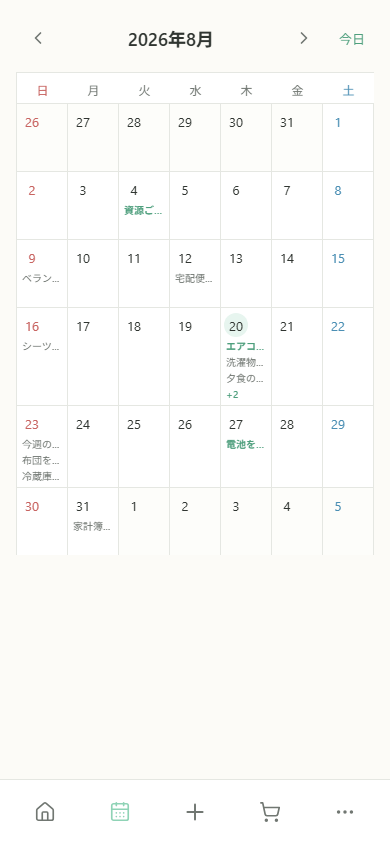
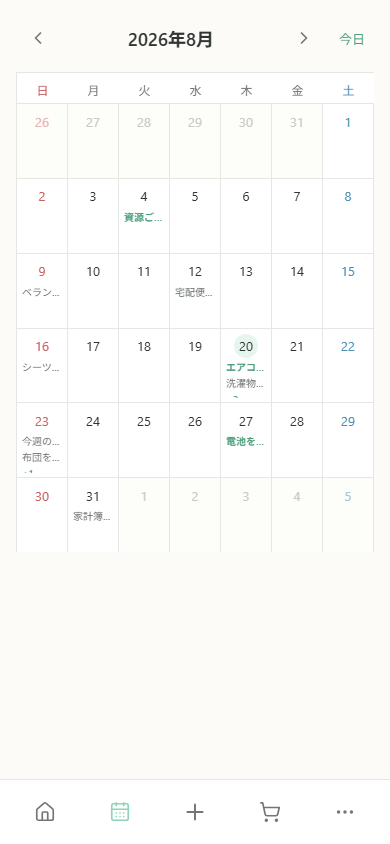
fix: address calendar review feedback

diff --git a/src/pages/CalendarPage.test.tsx b/src/pages/CalendarPage.test.tsx
@@ -34,12 +34,15 @@ describe('CalendarPage', () => {
     expect(screen.queryByText('朝食の片付け')).not.toBeInTheDocument();
     expect(screen.queryByText('窓を少し開ける')).not.toBeInTheDocument();
     expect(screen.getByText('エアコンのフィルターを掃除')).toBeVisible();
+
+    fireEvent.click(screen.getByRole('button', { name: /8月20日 木曜日/ }));
+    expect(screen.getByText('完了済み 1件')).toBeVisible();
   });
 
   it('shows overflow as +N in the dense fixture', () => {
     renderCalendar('dense');
 
-    expect(screen.getByText('+2')).toBeVisible();
+    expect(screen.getByText('+3')).toBeVisible();
   });
 
   it('opens date details from a cell and closes with the explicit control', () => {
@@ -85,6 +88,26 @@ describe('CalendarPage', () => {
     expect(screen.getByRole('heading', { name: '8月21日 金曜日' })).toBeVisible();
   });
 
+  it('keeps the selected date when a detail task swipe opens edit/pass actions', () => {
+    renderCalendar('date-open');
+    const sheet = screen.getByRole('dialog');
+    const task = sheet.querySelector('.calendar-detail-task');
+
+    if (!task) throw new Error('Expected a detail task');
+    fireEvent(
+      task,
+      new MouseEvent('pointerdown', { bubbles: true, clientX: 240 }),
+    );
+    fireEvent(
+      task,
+      new MouseEvent('pointerup', { bubbles: true, clientX: 160 }),
+    );
+
+    expect(screen.getByRole('button', { name: '編集' })).toBeVisible();
+    expect(screen.getByRole('button', { name: 'パス' })).toBeVisible();
+    expect(screen.getByRole('heading', { name: '8月20日 木曜日' })).toBeVisible();
+  });
+
   it('removes a detail task after the Home-style completion action', () => {
     renderCalendar('date-open');
     const taskName = 'エアコンのフィルターを掃除';
@@ -103,6 +126,18 @@ describe('CalendarPage', () => {
     renderCalendar('long-text');
     expect(document.querySelectorAll('.calendar-day-cell')).toHaveLength(42);
     expect(screen.getByText('冷蔵庫の中を確認して足りない食材を買い物メモに追加する')).toBeVisible();
+  });
+
+  it('adapts the month grid between six and five week months', () => {
+    renderCalendar('normal');
+
+    fireEvent.click(screen.getByRole('button', { name: '次の月' }));
+    expect(screen.getByRole('heading', { name: '2026年9月' })).toBeVisible();
+    expect(document.querySelectorAll('.calendar-day-cell')).toHaveLength(35);
+
+    fireEvent.click(screen.getByRole('button', { name: '前の月' }));
+    expect(screen.getByRole('heading', { name: '2026年8月' })).toBeVisible();
+    expect(document.querySelectorAll('.calendar-day-cell')).toHaveLength(42);
   });
 
   it('keeps BottomNavigation outside the Calendar content scroll region', () => {

diff --git a/src/pages/CalendarPage.tsx b/src/pages/CalendarPage.tsx
@@ -9,7 +9,7 @@ import { getCalendarUiLabState } from '../mock/calendarState';
 
 const TODAY = '2026-08-20';
 const INITIAL_MONTH = '2026-08-01';
-const MAX_CELL_TASKS = 3;
+const MAX_CELL_TASKS = 2;
 const WEEKDAYS = ['日', '月', '火', '水', '木', '金', '土'];
 
 type CalendarPageProps = {
@@ -24,7 +24,7 @@ export function CalendarPage({ state = getCalendarUiLabState() }: CalendarPagePr
   );
   const [tasks, setTasks] = useState<CalendarTask[]>(fixture.tasks);
   const [completedCount, setCompletedCount] = useState(
-    fixture.tasks.filter((task) => task.completed || task.passed).length,
+    fixture.tasks.filter((task) => task.completed).length,
   );
   const [statusMessage, setStatusMessage] = useState('');
 
@@ -32,7 +32,7 @@ export function CalendarPage({ state = getCalendarUiLabState() }: CalendarPagePr
     setMonthDate(INITIAL_MONTH);
     setSelectedDate(fixture.selectedDate ?? null);
     setTasks(fixture.tasks);
-    setCompletedCount(fixture.tasks.filter((task) => task.completed || task.passed).length);
+    setCompletedCount(fixture.tasks.filter((task) => task.completed).length);
     setStatusMessage('');
   }, [fixture, state]);
 
@@ -91,7 +91,7 @@ export function CalendarPage({ state = getCalendarUiLabState() }: CalendarPagePr
       </header>
 
       <section
-        className="calendar-month-grid"
+        className={`calendar-month-grid calendar-month-grid--${monthDays.length / 7}`}
         aria-label={`${formatMonthLabel(monthDate)}のカレンダー`}
         data-uilab-component="Calendar.MonthGrid"
       >
@@ -342,12 +342,18 @@ function CalendarDetailTask({
       className={`calendar-detail-task${actionsOpen ? ' is-actions-open' : ''}`}
       data-uilab-id={task.id}
       onPointerDown={(event) => {
+        event.stopPropagation();
         startX.current = event.clientX;
       }}
       onPointerUp={(event) => {
+        event.stopPropagation();
         if (startX.current !== null && startX.current - event.clientX > 48) {
           setActionsOpen(true);
         }
+        startX.current = null;
+      }}
+      onPointerCancel={(event) => {
+        event.stopPropagation();
         startX.current = null;
       }}
     >
@@ -391,7 +397,10 @@ function getMonthDays(monthDate: string): MonthDay[] {
   const start = new Date(firstDay);
   start.setDate(firstDay.getDate() - firstDay.getDay());
 
-  return Array.from({ length: 42 }, (_, index) => {
+  const lastDay = new Date(month.getFullYear(), month.getMonth() + 1, 0, 12);
+  const weekCount = Math.ceil((firstDay.getDay() + lastDay.getDate()) / 7);
+
+  return Array.from({ length: weekCount * 7 }, (_, index) => {
     const day = new Date(start);
     day.setDate(start.getDate() + index);
     return {

diff --git a/src/pages/CalendarPage.css b/src/pages/CalendarPage.css
@@ -55,7 +55,10 @@
 }
 
 .calendar-month-grid {
+  display: grid;
+  grid-template-rows: auto minmax(0, 1fr);
   width: 100%;
+  height: min(58dvh, 480px);
   min-width: 0;
   max-width: 100%;
   overflow: hidden;
@@ -70,6 +73,15 @@
   grid-template-columns: repeat(7, minmax(0, 1fr));
   width: 100%;
   min-width: 0;
+  min-height: 0;
+}
+
+.calendar-grid-body {
+  grid-template-rows: repeat(6, minmax(0, 1fr));
+}
+
+.calendar-month-grid--5 .calendar-grid-body {
+  grid-template-rows: repeat(5, minmax(0, 1fr));
 }
 
 .calendar-weekday-row span {
@@ -97,7 +109,8 @@
 
 .calendar-day-cell {
   min-width: 0;
-  min-height: 68px;
+  min-height: 0;
+  height: 100%;
   padding: 5px 3px 4px;
   overflow: hidden;
   background: var(--color-surface);
@@ -114,16 +127,15 @@
 }
 
 .calendar-day-cell.is-outside-month {
-  color: var(--color-disabled);
   background: color-mix(in srgb, var(--color-bg) 58%, var(--color-surface));
 }
 
 .calendar-day-number {
-  display: inline-grid;
+  display: grid;
   place-items: center;
   width: 24px;
   height: 24px;
-  margin-bottom: 2px;
+  margin: 0 auto 2px;
   color: var(--color-text);
   font-size: 0.8125rem;
   line-height: 1;
@@ -137,6 +149,18 @@
   color: var(--color-calendar-saturday);
 }
 
+.calendar-day-cell.is-outside-month .calendar-day-number {
+  color: var(--color-disabled);
+}
+
+.calendar-day-cell.is-outside-month .calendar-day-number--0 {
+  color: color-mix(in srgb, var(--color-calendar-sunday) 48%, var(--color-surface));
+}
+
+.calendar-day-cell.is-outside-month .calendar-day-number--6 {
+  color: color-mix(in srgb, var(--color-calendar-saturday) 48%, var(--color-surface));
+}
+
 .calendar-day-number.is-today {
   color: var(--color-text);
   background: var(--color-primary-soft);
@@ -147,6 +171,8 @@
   display: grid;
   gap: 2px;
   min-width: 0;
+  max-height: calc(100% - 26px);
+  overflow: hidden;
 }
 
 .calendar-day-task,
@@ -407,7 +433,6 @@
 
 @media (max-width: 340px) {
   .calendar-day-cell {
-    min-height: 64px;
     padding-inline: 2px;
   }
 
